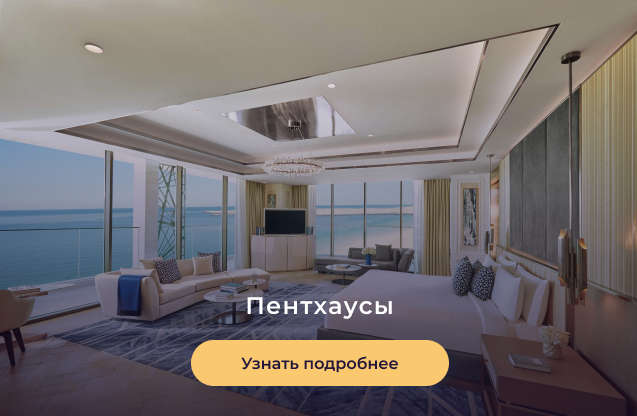
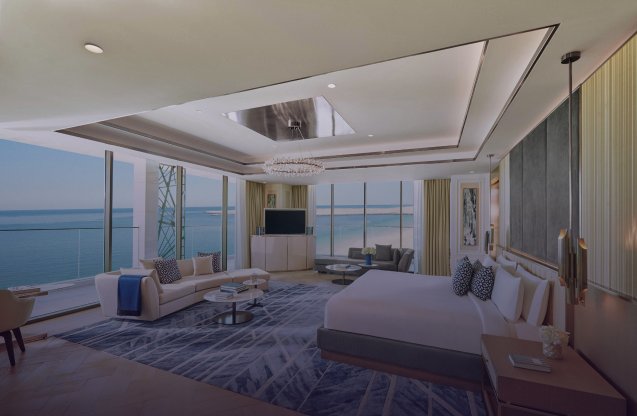
section 2 and 3

Changed region(s): [[0.2983, 0.8125, 0.7159, 0.9375], [0.3878, 0.6875, 0.6264, 0.7812]]

diff --git a/index.html b/index.html
@@ -59,7 +59,73 @@
 
                 </form>
         </section>
+        <section class="section2">
+            <div>
+                <h1 class="title-section center">
+                    Наши преимущества
+                </h1>
+            </div>
+            <div class="flex benefits container">
+                <div class="item flex row">
+                    <img src="./assets/img/icons/Bitcoin.svg"></img>
+                    <p>Принимаем Bitcoin </p>
+                </div>
+                <div class="item flex row">
+                    <img src="./assets/img/icons/contract.svg"></img>
+                    <p>Рассрочка на 3-5 лет </p>
+                </div>
+                <div class="item flex row">
+                    <img src="./assets/img/icons/hand.svg"></img>
+                    <p>Управление недвижимостью после покупки </p>
+                </div>
+                <div class="item flex row">
+                    <img src="./assets/img/icons/home.svg"></img>
+                    <p> Инвестиционный доход до 15% годовых </p>
+                </div>
+                <div class="item flex row">
+                    <img src="./assets/img/icons/visa.svg"></img>
+                    <p>Получение резидентской визы на 2 года </p>
+                </div>
+                <div class="item flex row">
+                    <img src="./assets/img/icons/bank.svg"></img>
+                    <p>Возможность взять кредит в банках Дубая </p>
+                </div>
+            </div>
+        </section>
+        <section class="section3">
+            <div class="flex row photos">
+                <div class="three flex j-c-between">
+                    <div class="item flex">
+                        <img src="./assets/img/photo1.png">
+                        <h3>Студии</h3>
+                        <button class="btn btn-yellow-light"> Узнать подробнее </button>
+                    </div>
+                    <div class="item flex ">
+                        <img src="./assets/img/photo2.png">
+                        <h3>Апартаменты</h3>
+                        <button class="btn btn-yellow-light"> Узнать подробнее </button>
+                    </div>
+                    <div class="item">
+                        <img src="./assets/img/photo3.png">
+                        <h3>Пентхаусы</h3>
+                        <button class="btn btn-yellow-light"> Узнать подробнее </button>
+                    </div>
 
+                </div>
+                <div class="two flex j-c-between">
+                    <div class="item">
+                        <img src="./assets/img/photo4.png">
+                        <h3>Пентхаусы</h3>
+                        <button class="btn btn-yellow-light"> Узнать подробнее </button>
+                    </div>
+                    <div class="item">
+                        <img src="./assets/img/photo5.png">
+                        <h3>Пентхаусы</h3>
+                        <button class="btn btn-yellow-light"> Узнать подробнее </button>
+                    </div>
+                </div>
+            </div>
+        </section>
     </main>
     <footer>
 

diff --git a/scss/styles.scss b/scss/styles.scss
@@ -6,6 +6,11 @@
 body {
     font-family: "Montserrat";
 }
+.title-section {
+    font-weight: 700;
+    font-size: 44px;
+    font-size: 2.6em;
+}
 
 header {
     .container {
@@ -34,7 +39,6 @@ header {
     background-size: cover;
     background-repeat: no-repeat;
     min-height: 700px;
-    min-width: 100vw;
     color: #fff;
 
     .text {
@@ -106,6 +110,94 @@ header {
 
         .btn-purple {
             margin-top: 30px;
+        }
+    }
+}
+
+.section2 {
+    max-width: 1400px;
+    margin: 100px auto;
+    background: url(../assets/img/Subtract.svg);
+    background-size: contain;
+    background-repeat: no-repeat;
+    background-position: center;
+
+    h1 {
+        font-size: 35px;
+        padding-bottom: 25px;
+        margin: 0;
+        transform: translateY(-12px);
+    }
+
+    .benefits {
+        flex-wrap: wrap;
+        justify-content: space-between;
+        padding-bottom: 50px;
+    }
+
+    .item {
+        align-items: center;
+        max-width: 30%;
+        margin-bottom: 25px;
+        p {
+            margin-left: 20px;
+            font-size: 20px;
+        }
+        img {
+            width: 70px;
+            height: 70px;
+        }
+    }
+}
+
+.section3 {
+    .photos {
+        flex-wrap: wrap;
+        .btn {
+            position: absolute;
+            top: 85%;
+            left: 50%;
+            transform: translate(-50%, -50%);
+        }
+        h3 {
+            position: absolute;
+            top: 65%;
+            left: 50%;
+            color: white;
+            font-size: 25px;
+            font-weight: 600;
+            transform: translate(-50%, -50%);
+        }
+
+        .item {
+            position: relative;
+        }
+
+        .three {
+            width: 100%;
+            .item {
+                width: calc(100vw / 3);
+                overflow: hidden;
+                img {
+                    width: 100%;
+                    height: 100%;
+                }
+            }
+
+            .item:nth-child(2) {
+                padding: 0 2px;
+            }
+        }
+        .two {
+            width: 100%;
+            margin-top: 2px;
+            .item {
+                width: calc(50vw - 1px);
+                overflow: hidden;
+                img {
+                    width: calc(100% - 1px);
+                }
+            }
         }
     }
 }

diff --git a/css/styles.css b/css/styles.css
@@ -54,12 +54,20 @@ body {
   padding: 0.5rem 2rem;
   outline: none;
   border: none;
+  cursor: pointer;
 }
 
 .btn-yellow {
   background-color: #FFC633;
   color: #000;
   font-weight: 700;
+}
+
+.btn-yellow-light {
+  background-color: #FAC86E;
+  color: #000;
+  font-weight: 700;
+  padding: 0.8rem 2.5rem;
 }
 
 .btn-purple {
@@ -78,6 +86,12 @@ input {
 
 body {
   font-family: "Montserrat";
+}
+
+.title-section {
+  font-weight: 700;
+  font-size: 44px;
+  font-size: 2.6em;
 }
 
 header .container {
@@ -103,7 +117,6 @@ header .tel {
   background-size: cover;
   background-repeat: no-repeat;
   min-height: 700px;
-  min-width: 100vw;
   color: #fff;
 }
 .section1 .text {
@@ -168,4 +181,84 @@ header .tel {
 }
 .section1 form .btn-purple {
   margin-top: 30px;
+}
+
+.section2 {
+  max-width: 1400px;
+  margin: 100px auto;
+  background: url(../assets/img/Subtract.svg);
+  background-size: contain;
+  background-repeat: no-repeat;
+  background-position: center;
+}
+.section2 h1 {
+  font-size: 35px;
+  padding-bottom: 25px;
+  margin: 0;
+  transform: translateY(-12px);
+}
+.section2 .benefits {
+  flex-wrap: wrap;
+  justify-content: space-between;
+  padding-bottom: 50px;
+}
+.section2 .item {
+  align-items: center;
+  max-width: 30%;
+  margin-bottom: 25px;
+}
+.section2 .item p {
+  margin-left: 20px;
+  font-size: 20px;
+}
+.section2 .item img {
+  width: 70px;
+  height: 70px;
+}
+
+.section3 .photos {
+  flex-wrap: wrap;
+}
+.section3 .photos .btn {
+  position: absolute;
+  top: 85%;
+  left: 50%;
+  transform: translate(-50%, -50%);
+}
+.section3 .photos h3 {
+  position: absolute;
+  top: 65%;
+  left: 50%;
+  color: white;
+  font-size: 25px;
+  font-weight: 600;
+  transform: translate(-50%, -50%);
+}
+.section3 .photos .item {
+  position: relative;
+}
+.section3 .photos .three {
+  width: 100%;
+}
+.section3 .photos .three .item {
+  width: 33.3333333333vw;
+  overflow: hidden;
+}
+.section3 .photos .three .item img {
+  width: 100%;
+  height: 100%;
+}
+.section3 .photos .three .item:nth-child(2) {
+  padding: 0 2px;
+}
+.section3 .photos .two {
+  width: 100%;
+  margin-top: 2px;
+}
+.section3 .photos .two .item {
+  width: calc(50vw - 1px);
+  overflow: hidden;
+}
+.section3 .photos .two .item img {
+  width: calc(100% - 1px);
 }

diff --git a/scss/_common.scss b/scss/_common.scss
@@ -32,12 +32,20 @@ body {
     padding: 0.5rem 2rem;
     outline: none;
     border: none;
+    cursor: pointer;
 }
 
 .btn-yellow {
     background-color: $yellow;
     color: #000;
     font-weight: 700;
+}
+
+.btn-yellow-light {
+    background-color: $yellow-light;
+    color: #000;
+    font-weight: 700;
+    padding: 0.8rem 2.5rem;
 }
 
 .btn-purple {
